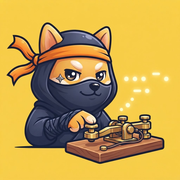
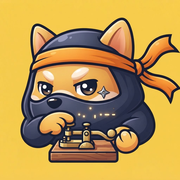
アイコンを基準の型（胸から上・モールスの電鍵）に作り直し

diff --git a/index.html b/index.html
@@ -24,9 +24,9 @@
 <meta property="og:title" content="モールス信号が届いています｜開くと文と音になります">
 <meta property="og:description" content="届いた符号を開くだけで、その場で文になります。信号音も鳴らせて、そのまま返事も作れます。点と線をたどる分岐図つきなので、初めてでも打てます。">
 <meta property="og:url" content="https://morse.kkpwebninja.com/">
-<link rel="icon" type="image/png" sizes="32x32" href="/favicon.png">
-<link rel="icon" type="image/png" sizes="192x192" href="/favicon-192.png">
-<link rel="apple-touch-icon" sizes="180x180" href="/apple-touch-icon.png">
+<link rel="icon" type="image/png" sizes="32x32" href="/favicon.png?v=2">
+<link rel="icon" type="image/png" sizes="192x192" href="/favicon-192.png?v=2">
+<link rel="apple-touch-icon" sizes="180x180" href="/apple-touch-icon.png?v=2">
 <meta property="og:site_name" content="モールス信号の分岐表">
 <meta property="og:image" content="https://morse.kkpwebninja.com/ogp.png?v=20260904g">
 <meta name="twitter:card" content="summary_large_image">
